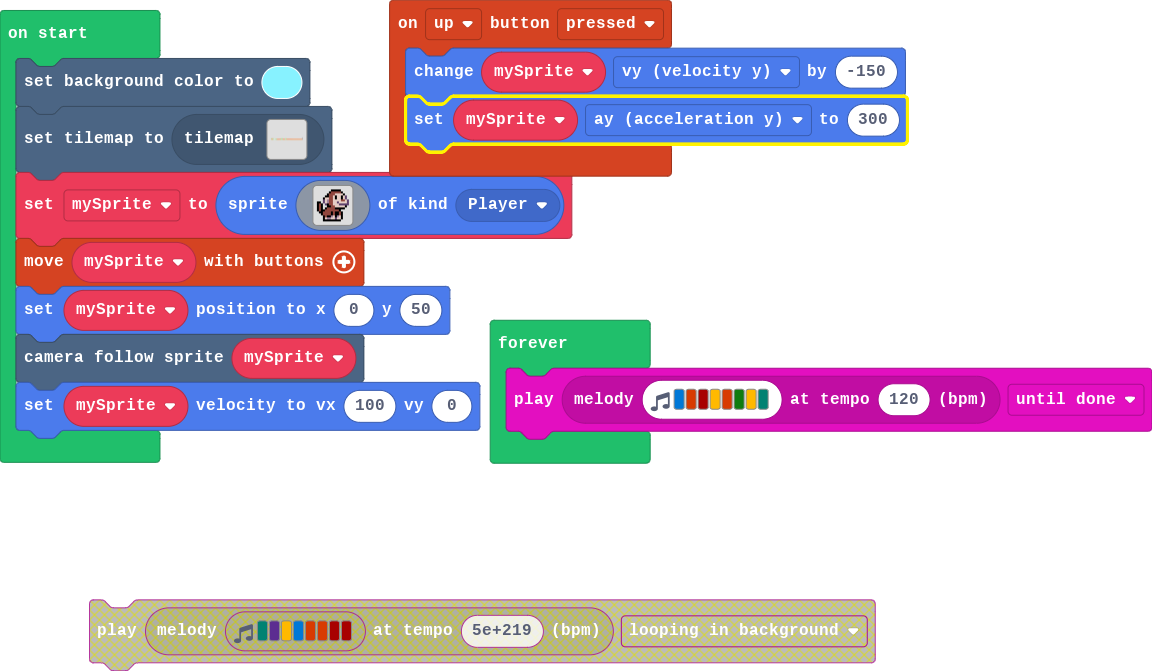
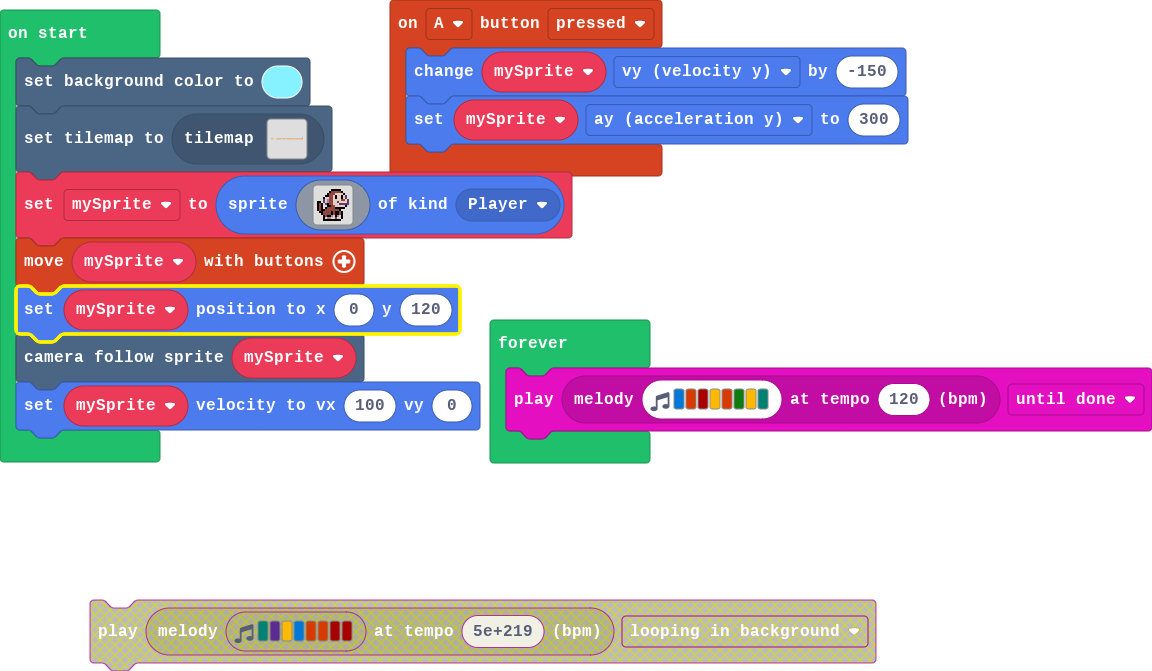
Update pxt.json, main.blocks, main.ts

diff --git a/main.ts b/main.ts
@@ -1,4 +1,4 @@
-controller.up.onEvent(ControllerButtonEvent.Pressed, function () {
+controller.A.onEvent(ControllerButtonEvent.Pressed, function () {
     mySprite.vy += -150
     mySprite.ay = 300
 })
@@ -24,7 +24,7 @@ mySprite = sprites.create(img`
     . . . f f f f f f f f f . . . . 
     `, SpriteKind.Player)
 controller.moveSprite(mySprite)
-mySprite.setPosition(0, 50)
+mySprite.setPosition(0, 120)
 scene.cameraFollowSprite(mySprite)
 mySprite.setVelocity(100, 0)
 forever(function () {
